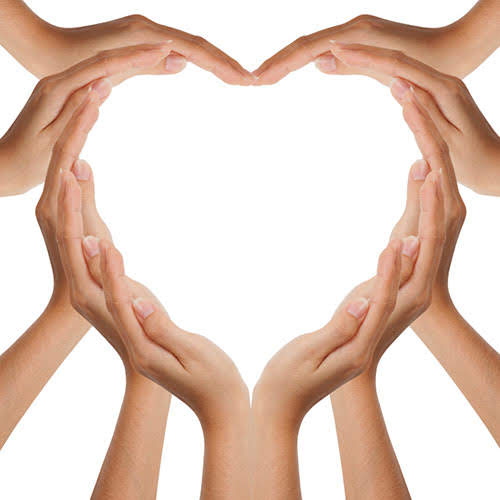
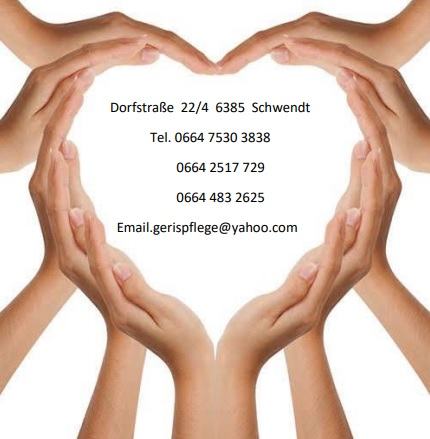
trh

diff --git a/2/contact.html b/2/contact.html
@@ -79,9 +79,7 @@
 
  <div class="section section-our-team-freebie" id="id-client">
         <div class="parallax filter filter-color-red">
-            <div class="image" style="background-image: url('assets/img/maini.jpg')";
-            background-repeat: no-repeat; 
-  background-attachment: fixed;>
+            <div class="image" style="background-color: #1e5132";>
             </div>
             <div class="container">
                 <div class="content">
@@ -92,10 +90,7 @@
                             <!-- <p class="description">We promise you a new look and more importantly, a new attitude. We build that by getting to know you, your needs and creating the best looking clothes.</p> -->
                         </div>
                     </div>
-                                           <div> <p class="text-white"> Vermittlung von Pflegepersonal</p>
-                    <p class="text-white"> Dorfstraẞe 22/4     6385   Schwendt </p>
-                    <p class="text-white"> Tel. 0064 7530 3838, 0664 2517 729,  0664 483 262 </p>
-                    <p class="text-white"> Email. gerispflege@yahoo.com</p></div>
+                                           <div> <img src="assets/img/maini.jpg" style="border-radius: 5%;"></div>
                     <br>
                     
                 </div>
@@ -108,9 +103,7 @@
 
 <div class="section section-our-team-freebie">
         <div class="parallax filter filter-color-red">
-            <div class="image" style="background-color: #1e5132"; 
-  background-repeat: no-repeat; 
-  background-attachment: fixed;">
+            <div class="image" style="background-color: #1e5132";>
             </div>
             <div class="container">
                 <div class="content">
